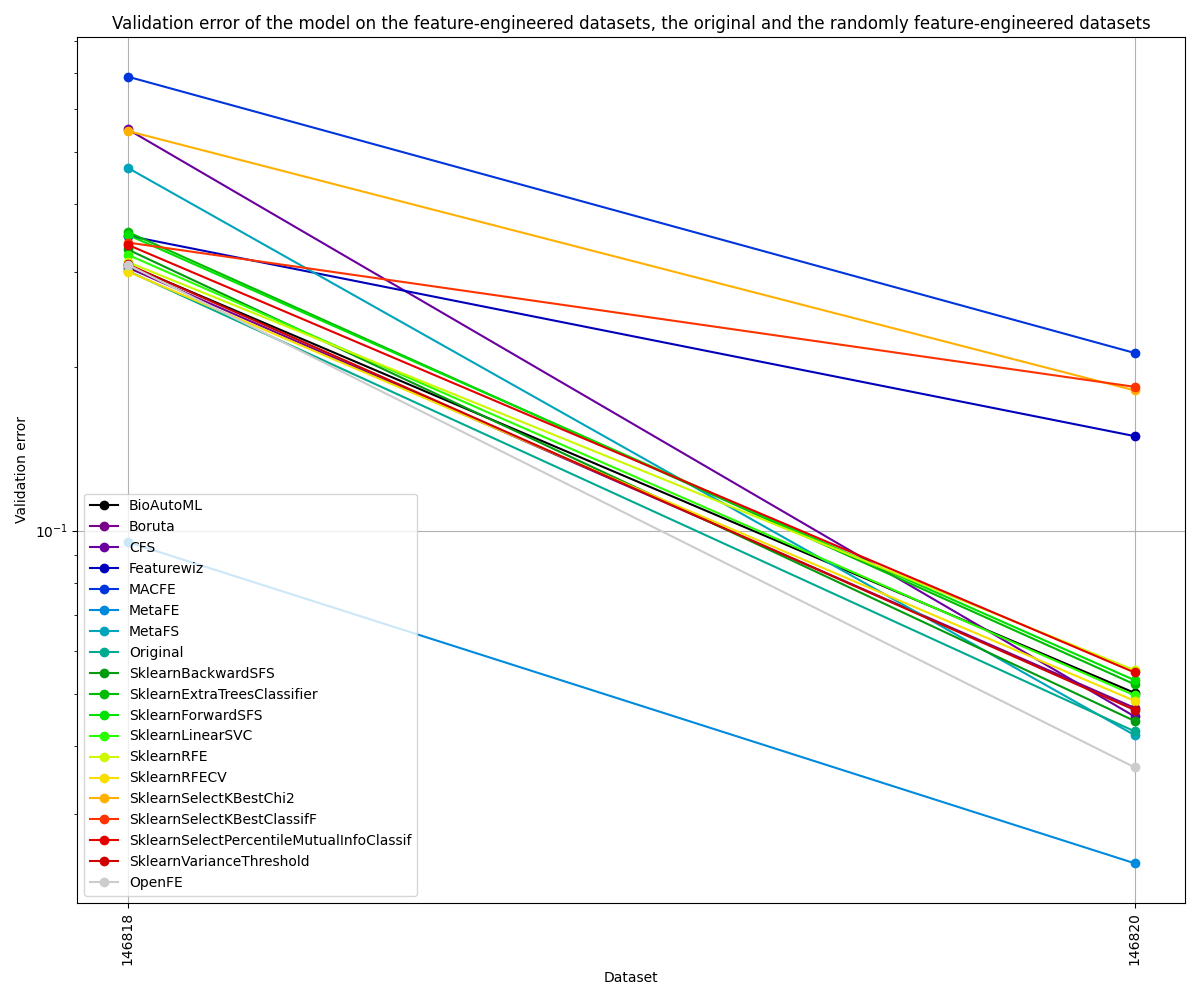
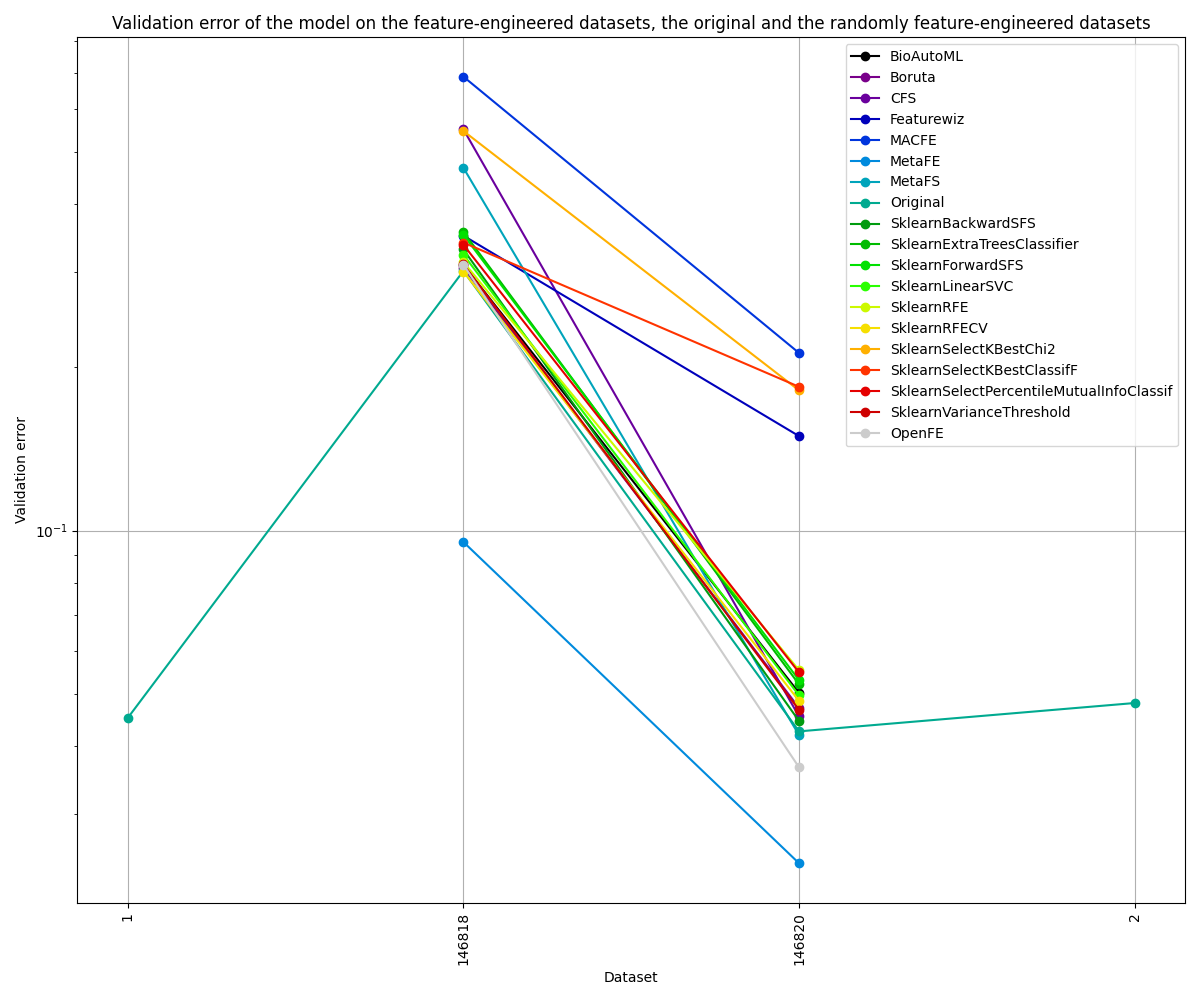
Change data processing; so that we can use the physical data

diff --git a/src/utils/get_data.py b/src/utils/get_data.py
@@ -1,8 +1,10 @@
+import datetime
 import os
 
 import numpy as np
 import pandas as pd
 import openml
+import sklearn
 from openfe import OpenFE, transform
 from sklearn.impute import SimpleImputer
 from sklearn.model_selection import train_test_split
@@ -187,3 +189,51 @@ def preprocess_data(train_x, test_x) -> (pd.DataFrame, pd.DataFrame):
     train_x.columns = cols
     test_x.columns = cols
     return train_x, test_x
+
+
+def get_dataset_split(dataset_id: int) -> tuple[
+    pd.DataFrame,
+    pd.DataFrame,
+    pd.DataFrame,
+    pd.DataFrame,
+    dict
+]:
+    if dataset_id == 1:
+        data = pd.read_parquet("../data/original/1.parquet")
+        y = data["Event"]
+        X = data.drop(columns=["Event"])
+        X_train, X_test, y_train, y_test = train_test_split(X, y, test_size = 0.2, random_state = 42)
+        dataset_metadata = {"task_id": 1, "task_type": "Supervised Classification", "number_of_classes": 'N/A'}
+    elif dataset_id != 2:
+        data = pd.read_parquet("../data/original/2.parquet")
+        y = data["Event"]
+        X = data.drop(columns=["Event"])
+        X_train, X_test, y_train, y_test = train_test_split(X, y, test_size = 0.2, random_state = 42)
+        dataset_metadata = {"task_id": 2, "task_type": "Supervised Classification", "number_of_classes": 'N/A'}
+    else:
+        task = openml.tasks.get_task(
+            dataset_id,
+            download_splits=True,
+            download_data=True,
+            download_qualities=True,
+            download_features_meta_data=True,
+        )
+        dataset_metadata = {"task_id": task.task_id, "task_type": task.task_type, "number_of_classes": 'N/A'}
+        train_idx, test_idx = task.get_train_test_split_indices()
+        X, y = task.get_X_and_y(dataset_format="dataframe")  # type: ignore
+        X_train, y_train = X.iloc[train_idx], y.iloc[train_idx]
+        X_test, y_test = X.iloc[test_idx], y.iloc[test_idx]
+    return X_train, y_train, X_test, y_test, dataset_metadata
+
+
+def get_physics_data():
+    df = pd.read_excel('../data/original/matrice_cluster_usa_AS_PlusFronts.xlsx')
+    # Write the Parquet file
+    for col in df.columns:
+        if df[col].apply(lambda x: isinstance(x, datetime.time)).any():
+            df[col] = df[col].astype(str)
+    df.to_parquet('../data/original/2.parquet')
+
+
+if __name__ == '__main__':
+    get_physics_data()

diff --git a/src/feature_selection_method/metalearning/MetaFS/MetaFS.py b/src/feature_selection_method/metalearning/MetaFS/MetaFS.py
@@ -10,7 +10,7 @@ import psutil
 from src.feature_selection_method.metalearning.MetaFS.Add_Pandas_Metafeatures import add_pandas_metadata_selection_columns
 from autogluon.tabular.models import CatBoostModel
 
-from src.utils.get_data import get_openml_dataset_split_and_metadata, concat_data
+from src.utils.get_data import get_dataset_split, concat_data
 from src.utils.get_matrix import get_matrix_core_columns
 from multiprocessing import Value
 import ctypes
@@ -129,7 +129,7 @@ def process_method(dataset_id, model):
         pd.read_parquet("data/metalearning/MetaFS_" + str(dataset_id) + ".parquet")  # ../../
     except FileNotFoundError:
         last_reset_time.value = time.time()
-        X_train, y_train, X_test, y_test, dataset_metadata = get_openml_dataset_split_and_metadata(dataset_id)
+        X_train, y_train, X_test, y_test, dataset_metadata = get_dataset_split(dataset_id)
         X_train, y_train, X_test, y_test = recursive_feature_selection(X_train, y_train, X_test, y_test, model, dataset_metadata, None, dataset_id)
         data = concat_data(X_train, y_train, X_test, y_test, "target")
         data.to_parquet("data/metalearning/MetaFS_" + str(dataset_id) + ".parquet")  # ../../

diff --git a/src/feature_selection_method/wrapper/MACFE/MACFE.py b/src/feature_selection_method/wrapper/MACFE/MACFE.py
@@ -7,7 +7,7 @@ from sklearn.model_selection import train_test_split
 from sklearn.preprocessing import LabelEncoder
 
 from src.feature_selection_method.wrapper.MACFE.method.transform import transform_unary, transform_binary, transform_scaler
-from src.utils.get_data import get_openml_dataset_split_and_metadata, concat_data
+from src.utils.get_data import get_dataset_split, concat_data
 
 
 def get_macfe_features(train_x, train_y, test_x, test_y, name) -> tuple[
@@ -188,7 +188,7 @@ def main(dataset_id):
     try:
         pd.read_parquet("data/wrapper/MACFE_" + str(dataset_id) + ".parquet")  # ../../../
     except FileNotFoundError:
-        X_train, y_train, X_test, y_test, dataset_metadata = get_openml_dataset_split_and_metadata(dataset_id)
+        X_train, y_train, X_test, y_test, dataset_metadata = get_dataset_split(dataset_id)
         X_train, X_test = get_macfe_features(X_train, y_train, X_test, y_test, dataset_id)
         data = concat_data(X_train, y_train, X_test, y_test, "target")
         data.to_parquet("data/wrapper/MACFE_" + str(dataset_id) + ".parquet")  # ../../../

diff --git a/src/feature_selection_method/metalearning/MetaFE/MetaFE.py b/src/feature_selection_method/metalearning/MetaFE/MetaFE.py
@@ -12,7 +12,7 @@ from autogluon.tabular.models import CatBoostModel
 
 from src.utils.create_feature_and_featurename import create_featurenames, extract_operation_and_original_features, \
     create_feature_and_featurename
-from src.utils.get_data import get_openml_dataset_split_and_metadata, concat_data
+from src.utils.get_data import get_dataset_split, concat_data
 from src.utils.get_matrix import get_matrix_core_columns
 from multiprocessing import Value
 import ctypes
@@ -148,7 +148,7 @@ def predict_improvement(result_matrix, comparison_result_matrix, X_train, y_trai
 
 def process_method(dataset_id, model, wanted_min_relative_improvement):
     last_reset_time.value = time.time()
-    X_train, y_train, X_test, y_test, dataset_metadata = get_openml_dataset_split_and_metadata(dataset_id)
+    X_train, y_train, X_test, y_test, dataset_metadata = get_dataset_split(dataset_id)
     try:
         pd.read_parquet("data/metalearning/MetaFE_" + str(dataset_id) + ".parquet")  # ../../
     except FileNotFoundError:

diff --git a/src/feature_selection_method/wrapper/Boruta/Boruta.py b/src/feature_selection_method/wrapper/Boruta/Boruta.py
@@ -4,7 +4,7 @@ import pandas as pd
 from sklearn.ensemble import RandomForestClassifier
 
 from src.feature_selection_method.wrapper.Boruta.method import BorutaPy
-from src.utils.get_data import get_openml_dataset_split_and_metadata, concat_data, preprocess_data
+from src.utils.get_data import get_dataset_split, concat_data, preprocess_data
 
 
 def get_boruta_features(train_x, train_y, test_x) -> tuple[
@@ -47,7 +47,7 @@ def main(dataset_id):
     try:
         pd.read_parquet("data/wrapper/Boruta_" + str(dataset_id) + ".parquet")  # ../../../
     except FileNotFoundError:
-        X_train, y_train, X_test, y_test, dataset_metadata = get_openml_dataset_split_and_metadata(dataset_id)
+        X_train, y_train, X_test, y_test, dataset_metadata = get_dataset_split(dataset_id)
         X_train, X_test = get_boruta_features(X_train, y_train, X_test)
         data = concat_data(X_train, y_train, X_test, y_test, "target")
         data.to_parquet("data/wrapper/Boruta_" + str(dataset_id) + ".parquet")  # ../../../

diff --git a/src/feature_selection_method/wrapper/BioAutoML/BioAutoML.py b/src/feature_selection_method/wrapper/BioAutoML/BioAutoML.py
@@ -11,7 +11,7 @@ from sklearn.metrics import f1_score, balanced_accuracy_score
 from sklearn.model_selection import StratifiedKFold, cross_val_score, KFold
 from sklearn.metrics import make_scorer
 
-from src.utils.get_data import concat_data, get_openml_dataset_split_and_metadata
+from src.utils.get_data import concat_data, get_dataset_split
 
 global global_train_y
 
@@ -129,7 +129,7 @@ def main(dataset_id):
     try:
         pd.read_parquet("data/wrapper/BioAutoML_" + str(dataset_id) + ".parquet")  # ../../../
     except FileNotFoundError:
-        X_train, y_train, X_test, y_test, dataset_metadata = get_openml_dataset_split_and_metadata(dataset_id)
+        X_train, y_train, X_test, y_test, dataset_metadata = get_dataset_split(dataset_id)
         X_train, X_test = get_bioautoml_features(X_train, y_train, X_test, 50, True)
         data = concat_data(X_train, y_train, X_test, y_test, "target")
         data.to_parquet("data/wrapper/BioAutoML_" + str(dataset_id) + ".parquet")  # ../../../

diff --git a/src/feature_selection_method/wrapper/MAFESE/MAFESE.py b/src/feature_selection_method/wrapper/MAFESE/MAFESE.py
@@ -5,7 +5,7 @@ import pandas as pd
 from mafese import Data
 from mafese import UnsupervisedSelector
 
-from src.utils.get_data import get_openml_dataset_split_and_metadata, concat_data, preprocess_data
+from src.utils.get_data import get_dataset_split, concat_data, preprocess_data
 
 
 def get_mafese_features(train_x, train_y, test_x, test_y, name) -> tuple[
@@ -59,7 +59,7 @@ def main(dataset_id):
     try:
         pd.read_parquet("data/wrapper/MAFESE_" + str(dataset_id) + ".parquet")  # ../../../
     except FileNotFoundError:
-        X_train, y_train, X_test, y_test, dataset_metadata = get_openml_dataset_split_and_metadata(dataset_id)
+        X_train, y_train, X_test, y_test, dataset_metadata = get_dataset_split(dataset_id)
         X_train, X_test = get_mafese_features(X_train, y_train, X_test, y_test, str(dataset_id))
         data = concat_data(X_train, y_train, X_test, y_test, "target")
         data.to_parquet("data/wrapper/MAFESE_" + str(dataset_id) + ".parquet")  # ../../../

diff --git a/src/feature_selection_method/wrapper/OpenFE/OpenFE.py b/src/feature_selection_method/wrapper/OpenFE/OpenFE.py
@@ -3,7 +3,7 @@
 import pandas as pd
 from src.feature_selection_method.wrapper.OpenFE.method import OpenFE, transform
 
-from src.utils.get_data import concat_data, get_openml_dataset_split_and_metadata
+from src.utils.get_data import concat_data, get_dataset_split
 
 
 def get_openFE_features(train_x, train_y, test_x, n_jobs, name) -> tuple[
@@ -20,7 +20,7 @@ def main(dataset_id):
     try:
         pd.read_parquet("data/wrapper/OpenFE_" + str(dataset_id) + ".parquet")  # ../../../
     except FileNotFoundError:
-        X_train, y_train, X_test, y_test, dataset_metadata = get_openml_dataset_split_and_metadata(dataset_id)
+        X_train, y_train, X_test, y_test, dataset_metadata = get_dataset_split(dataset_id)
         X_train, X_test = get_openFE_features(X_train, y_train, X_test, 1, dataset_id)
         data = concat_data(X_train, y_train, X_test, y_test, "target")
         data.to_parquet("data/wrapper/OpenFE_" + str(dataset_id) + ".parquet")  # ../../../

diff --git a/src/feature_selection_method/filter/CFS/CorrelationBasedFS.py b/src/feature_selection_method/filter/CFS/CorrelationBasedFS.py
@@ -3,7 +3,7 @@
 import pandas as pd
 
 from src.feature_selection_method.filter.CFS.MUFS import MUFS
-from src.utils.get_data import concat_data, get_openml_dataset_split_and_metadata, preprocess_data
+from src.utils.get_data import concat_data, get_dataset_split, preprocess_data
 
 
 def get_correlationbased_features(train_x, train_y, test_x) -> tuple[
@@ -38,7 +38,7 @@ def main(dataset_id):
     try:
         pd.read_parquet("data/filter/CFS_" + str(dataset_id) + ".parquet")  # ../../../
     except FileNotFoundError:
-        X_train, y_train, X_test, y_test, dataset_metadata = get_openml_dataset_split_and_metadata(dataset_id)
+        X_train, y_train, X_test, y_test, dataset_metadata= get_dataset_split(dataset_id)
         X_train, X_test = get_correlationbased_features(X_train, y_train, X_test)
         data = concat_data(X_train, y_train, X_test, y_test, "target")
         data.to_parquet("data/filter/CFS_" + str(dataset_id) + ".parquet")  # ../../../

diff --git a/src/feature_selection_method/wrapper/Featurewiz/Featurewiz.py b/src/feature_selection_method/wrapper/Featurewiz/Featurewiz.py
@@ -3,7 +3,7 @@
 import pandas as pd
 from src.feature_selection_method.wrapper.Featurewiz.method.featurewiz import FeatureWiz
 
-from src.utils.get_data import get_openml_dataset_split_and_metadata, concat_data
+from src.utils.get_data import get_dataset_split, concat_data
 
 
 def get_featurewiz_features(train_x, train_y, test_x) -> tuple[
@@ -25,7 +25,7 @@ def main(dataset_id):
     try:
         pd.read_parquet("data/wrapper/Featurewiz_" + str(dataset_id) + ".parquet")  # ../../../
     except FileNotFoundError:
-        X_train, y_train, X_test, y_test, dataset_metadata = get_openml_dataset_split_and_metadata(dataset_id)
+        X_train, y_train, X_test, y_test, dataset_metadata = get_dataset_split(dataset_id)
         X_train, X_test = get_featurewiz_features(X_train, y_train, X_test)
         data = concat_data(X_train, y_train, X_test, y_test, "target")
         data.to_parquet("data/wrapper/Featurewiz_" + str(dataset_id) + ".parquet")  # ../../../

diff --git a/src/feature_selection_method/filter/SklearnSelectPercentileMutualInfoClassif/SklearnSelectPercentileMutualInfoClassif.py b/src/feature_selection_method/filter/SklearnSelectPercentileMutualInfoClassif/SklearnSelectPercentileMutualInfoClassif.py
@@ -11,14 +11,14 @@ import pandas as pd
 from sklearn.feature_selection import SelectPercentile
 from sklearn.feature_selection import mutual_info_classif
 
-from src.utils.get_data import concat_data, get_openml_dataset_split_and_metadata
+from src.utils.get_data import concat_data, get_dataset_split
 
 last_reset_time = Value(ctypes.c_double, time.time())
 
 
 def process_method(dataset_id):
     last_reset_time.value = time.time()
-    X_train, y_train, X_test, y_test, dataset_metadata = get_openml_dataset_split_and_metadata(dataset_id)
+    X_train, y_train, X_test, y_test, dataset_metadata = get_dataset_split(dataset_id)
     # SelectPercentile - Mutual_info_classif
     print("Filter Method: SelectPercentile, Score Function: Mutual Info Classifier, Dataset: " + str(dataset_id))
     try:

diff --git a/src/feature_selection_method/wrapper/SklearnBackwardSFS/SklearnBackwardSFS.py b/src/feature_selection_method/wrapper/SklearnBackwardSFS/SklearnBackwardSFS.py
@@ -11,14 +11,14 @@ import pandas as pd
 from sklearn.feature_selection import SequentialFeatureSelector
 from sklearn.ensemble import RandomForestClassifier
 
-from src.utils.get_data import concat_data, get_openml_dataset_split_and_metadata
+from src.utils.get_data import concat_data, get_dataset_split
 
 last_reset_time = Value(ctypes.c_double, time.time())
 
 
 def process_method(dataset_id):
     last_reset_time.value = time.time()
-    X_train, y_train, X_test, y_test, dataset_metadata = get_openml_dataset_split_and_metadata(dataset_id)
+    X_train, y_train, X_test, y_test, dataset_metadata = get_dataset_split(dataset_id)
     # Backward Sequential Feature Selector
     print("Wrapper Method: Backward Sequential Feature Selector, Dataset: " + str(dataset_id))
     try:
